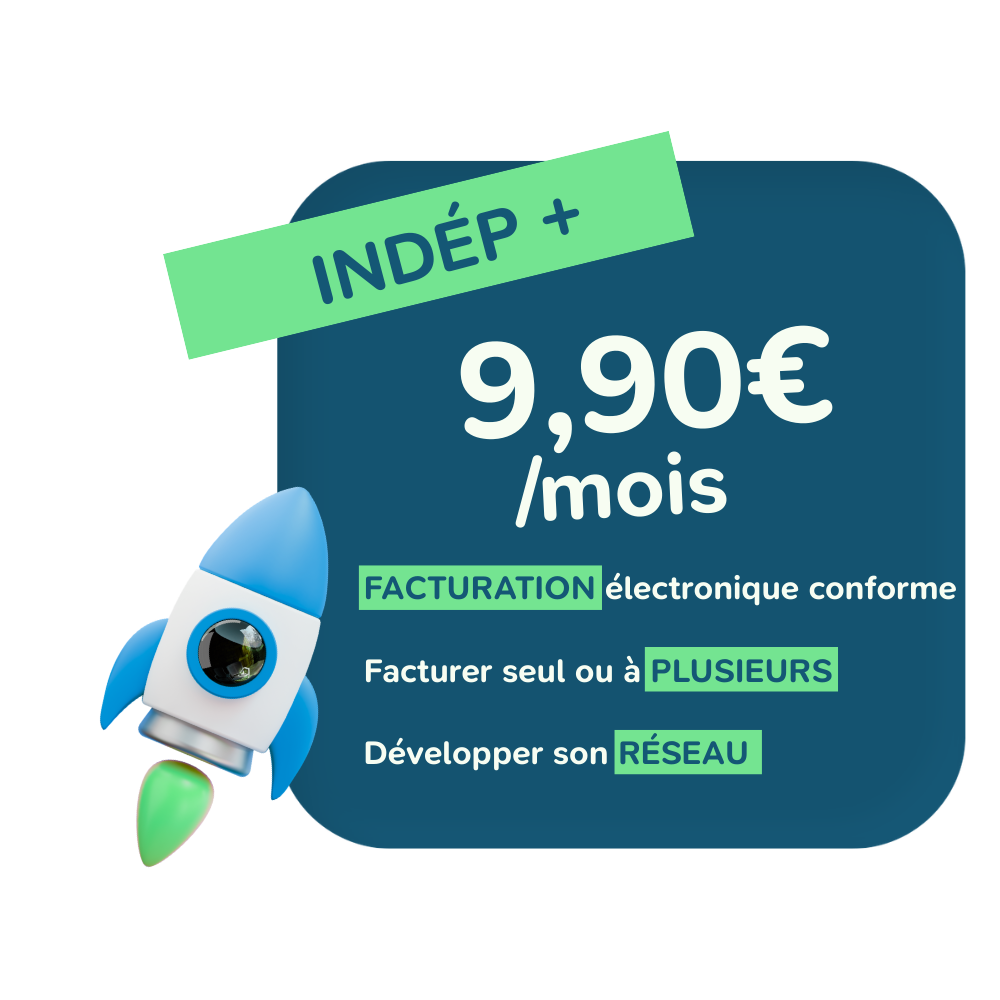
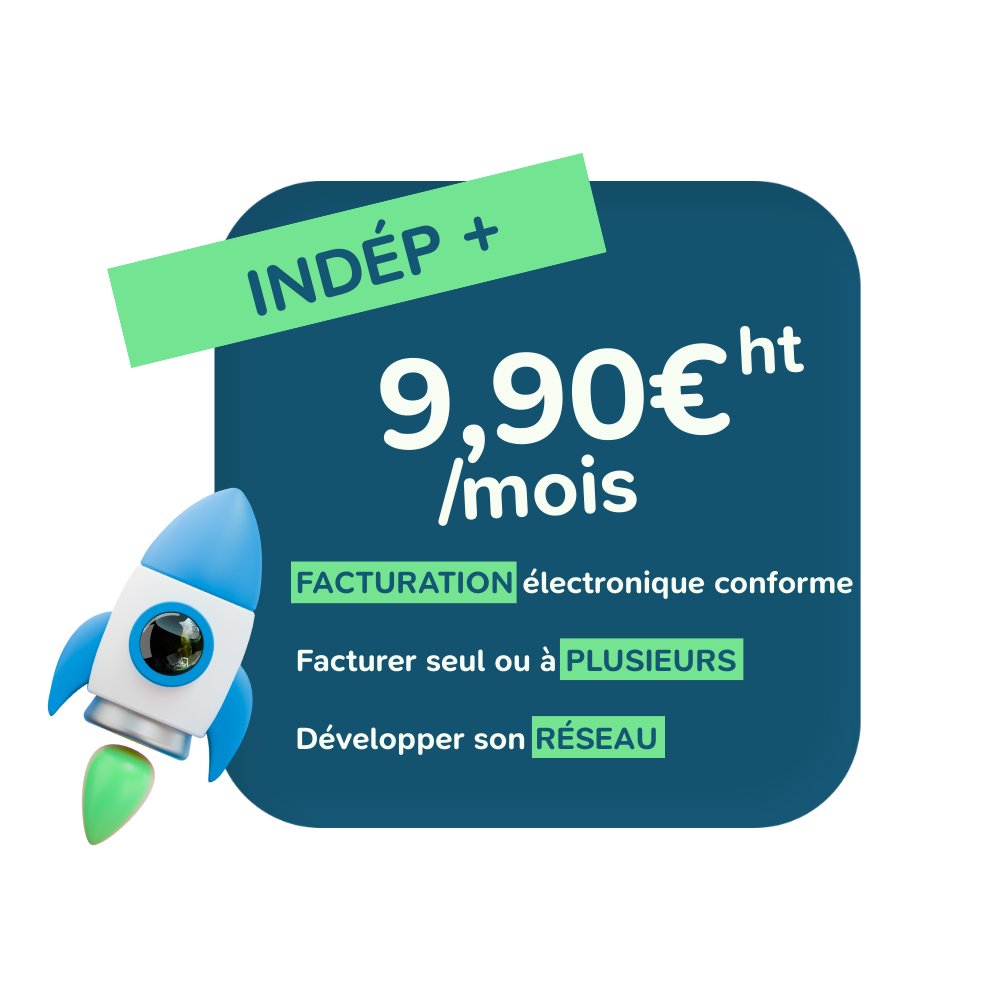
feat/meta ht price precision 17/03/2026 08:35

Changed region(s): [[0.031, 0.124, 0.992, 0.868]]

diff --git a/src/app/pages/funnel/steps/offer-step/offer-step.component.html b/src/app/pages/funnel/steps/offer-step/offer-step.component.html
@@ -15,7 +15,7 @@
 
       <div class="moze-card indep-card">
         <div class="card-badge badge-green">INDÉP +</div>
-        <div class="price">9,90€<br><span>/mois</span></div>
+        <div class="price">9,90€<span class="ht">HT</span><br><span>/mois</span></div>
         <ul class="features">
           <li><span class="hl-green">FACTURATION</span> électronique conforme</li>
           <li>Facturer seul ou à <span class="hl-green">PLUSIEURS</span></li>
@@ -27,7 +27,7 @@
         <div class="plus-circle">+</div>
         <div class="moze-card coop-card">
           <div class="card-badge badge-blue">COOP</div>
-          <div class="price">+20€<br><span>/mois</span></div>
+          <div class="price">+20€<span class="ht">HT</span><br><span>/mois</span></div>
           <ul class="features">
             <li>Accès au n°SAP<br> <span class="hl-blue">SANS EXCLUSIVITÉ</span></li>
             <li>Cadre <span class="hl-blue">SÉCURISÉ</span> et conforme</li>
@@ -40,6 +40,11 @@
     <button class="cta-btn" (click)="register()">
       JE DEVIENS MOZEUR !
     </button>
-    <p class="small">9,90€HT soit <span>11,88€TTC</span></p>
+    @if (!isCoop()) {
+      <p class="small">9,90€HT soit <span>11,88€TTC</span></p>
+    }
+    @if (isCoop()) {
+      <p class="small">29,90€HT soit <span>35,88€TTC</span></p>
+    }
   </div>
 </div>

diff --git a/src/app/pages/home/tarif/tarif.component.html b/src/app/pages/home/tarif/tarif.component.html
@@ -10,8 +10,8 @@
       <div class="tile indep">
         <div class="banner-tile indep-banner">INDÉP +</div>
         <div class="price">
-          <p class="number">9.90€</p>
-          <p>/ mois</p>
+          <p class="number">9.90€<span>HT</span></p>
+          <p><span class="slash">/</span>mois</p>
         </div>
         <div class="text-container">
           <p><span>FACTURATION</span> éléctronique conforme</p>
@@ -24,8 +24,8 @@
       <div class="tile coop">
         <div class="banner-tile coop-banner">COOP</div>
         <div class="price">
-          <p class="number">+ 20€</p>
-          <p>/ mois</p>
+          <p class="number">+20€<span>HT</span></p>
+          <p><span class="slash">/</span>mois</p>
         </div>
         <div class="text-container">
           <p>Accès au n°SAP <span class="span-coop">SANS EXCLUSIVITÉ</span></p>

diff --git a/src/app/pages/funnel/steps/offer-step/offer-step.component.scss b/src/app/pages/funnel/steps/offer-step/offer-step.component.scss
@@ -136,13 +136,17 @@ h1 {
 }
 
 .small {
-  font-size: clamp(0.8rem, 3vw, 1.2rem);
+  font-size: clamp(0.95rem, 3vw, 1.1rem);
   color: var(--primary-color);
   margin-top: 1.5rem;
 
   span {
     font-weight: 800;
   }
+}
+
+.ht {
+  font-size: clamp(0.8rem, 3vw, 1.2rem);
 }
 
 // --- RESPONSIVE MOBILE (< 600px) ---

diff --git a/src/app/pages/home/tarif/tarif.component.scss b/src/app/pages/home/tarif/tarif.component.scss
@@ -102,6 +102,19 @@
   flex-direction: column;
   transform: rotate(-2deg);
   margin-bottom: 2rem;
+
+  span {
+    font-size: clamp(1.2rem, -0.0714rem + 2.1429vw, 1.5rem);
+    margin-bottom: 1rem;
+  }
+
+  p:not(.number){
+    font-size: 1.2rem;
+  }
+
+  .slash {
+    margin-right: 0.1rem;
+  }
 }
 
 .tile:hover{
